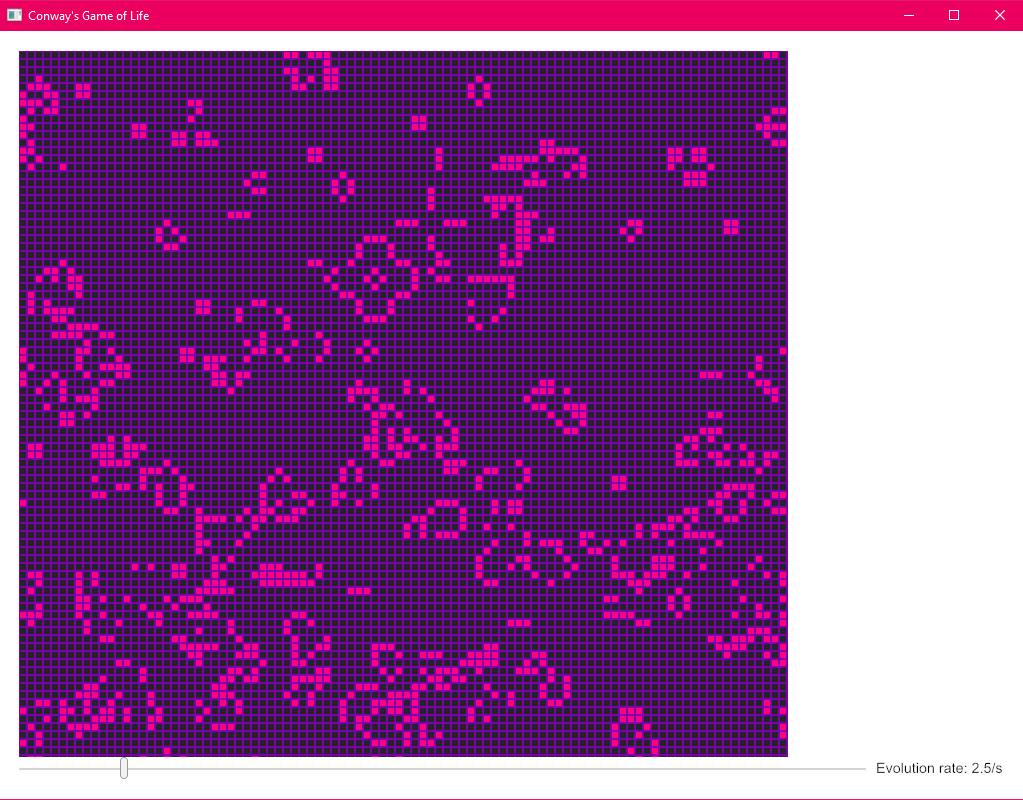
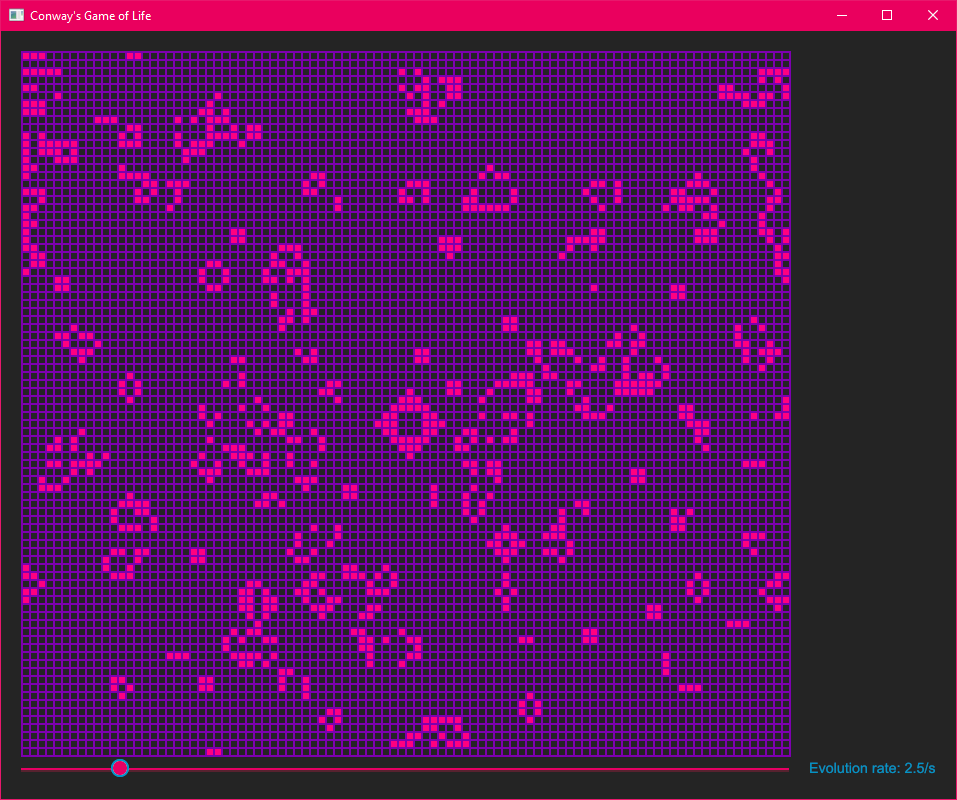
Layout and styling updates

diff --git a/src/bin/main.rs b/src/bin/main.rs
@@ -112,7 +112,9 @@ impl Application for UI {
             .width(Length::Fill)
             .height(Length::Fill);
 
-        let controls = self.controls.view();
+        let slider_width = self.cell_grid.cell_size * self.cell_grid.grid_size;
+
+        let controls = self.controls.view(slider_width as u16);
         let content = Column::new().push(canvas).push(controls);
 
         Container::new(content)
@@ -121,6 +123,7 @@ impl Application for UI {
             .padding(20)
             .center_x()
             .center_y()
+            .style(style::Container)
             .into()
     }
 
@@ -170,15 +173,10 @@ impl canvas::Program<Message> for &CellGrid {
 
             if self.show_grid_lines {
                 for line in 0..=self.grid_size {
-                    let half_width = self.line_width / 2.0;
                     let mut vertical_top_left =
                         Point::from(Position { x: line, y: 0 } * self.cell_size);
-                    vertical_top_left.x -= half_width;
-                    vertical_top_left.y -= half_width;
                     let mut horizontal_top_left =
                         Point::from(Position { x: 0, y: line } * self.cell_size);
-                    horizontal_top_left.x -= half_width;
-                    horizontal_top_left.y -= half_width;
 
                     let size = (self.grid_size * self.cell_size) as f32 + self.line_width;
                     let vertical_size = Size {
@@ -231,25 +229,54 @@ struct Controls {
 }
 
 impl Controls {
-    fn view(&mut self) -> Element<Message> {
-        let speed_controls = Row::new()
-            .width(Length::Fill)
+    fn view(&mut self, slider_width: u16) -> Element<Message> {
+        // let speed_controls = Row::new()
+        //     .width(Length::Fill)
+        //     .align_items(Align::Center)
+        //     .spacing(10)
+        //     .push(
+        //         Slider::new(
+        //             &mut self.evolution_rate_slider,
+        //             1.0..=200.0,
+        //             (self.evolution_rate) as f64,
+        //             Message::EvolutionRateChange,
+        //         )
+        //         .style(style::Slider),
+        //     )
+        //     .push(
+        //         Text::new(format!(
+        //             "Evolution rate: {}/s",
+        //             (self.evolution_rate as f64) / 10.0
+        //         ))
+        //         .size(16),
+        //     );
+        let speed_slider = Row::new()
+            .width(Length::Units(slider_width))
             .align_items(Align::Center)
             .spacing(10)
-            .push(Slider::new(
-                &mut self.evolution_rate_slider,
-                1.0..=200.0,
-                (self.evolution_rate) as f64,
-                Message::EvolutionRateChange,
-            )
-        .style(style::Slider))
-            .push(Text::new(format!("Evolution rate: {}/s", (self.evolution_rate as f64)/10.0)).size(16));
+            .push(
+                Slider::new(
+                    &mut self.evolution_rate_slider,
+                    1.0..=200.0,
+                    (self.evolution_rate) as f64,
+                    Message::EvolutionRateChange,
+                )
+                .style(style::Slider),
+            );
+        let text = Text::new(format!(
+            "Evolution rate: {}/s",
+            (self.evolution_rate as f64) / 10.0
+        ))
+        .size(16);
 
         Row::new()
-            .padding(10)
+            .width(Length::Shrink)
+            .padding(0)
             .spacing(20)
             .align_items(Align::Center)
-            .push(speed_controls).into()
+            .push(speed_slider)
+            .push(text)
+            .into()
     }
 }
 

diff --git a/src/bin/style.rs b/src/bin/style.rs
@@ -1,5 +1,4 @@
-use iced::{Color,
-slider};
+use iced::{container, slider, Background, Color};
 
 #[allow(clippy::eq_op)]
 
@@ -9,8 +8,22 @@ pub const DEAD_CELL: Color = Color::from_rgba(36.0 / 255.0, 36.0 / 255.0, 36.0 /
 pub const GRID_LINE: Color = Color::from_rgba(125.0 / 255.0, 0.0 / 255.0, 175.0 / 255.0, 1.0);
 
 // Control colors
-pub const ACTIVE: Color = Color::from_rgba(230.0/255.0, 0.0/255.0, 100.0/255.0, 1.0);
-pub const HOVERED: Color = Color::from_rgba(250.0/255.0, 0.0/255.0, 115.0/255.0, 1.0);
+pub const ACTIVE: Color = Color::from_rgba(230.0 / 255.0, 0.0 / 255.0, 100.0 / 255.0, 1.0);
+pub const HOVERED: Color = Color::from_rgba(250.0 / 255.0, 0.0 / 255.0, 115.0 / 255.0, 1.0);
+pub const ACCENT: Color = Color::from_rgba(0.0 / 255.0, 150.0 / 255.0, 200.0 / 255.0, 1.0);
+pub const BACKGROUND: Color = DEAD_CELL;
+
+pub struct Container;
+
+impl container::StyleSheet for Container {
+    fn style(&self) -> container::Style {
+        container::Style {
+            background: Some(Background::Color(BACKGROUND)),
+            text_color: Some(ACCENT),
+            ..container::Style::default()
+        }
+    }
+}
 
 pub struct Slider;
 
@@ -21,8 +34,8 @@ impl slider::StyleSheet for Slider {
             handle: slider::Handle {
                 shape: slider::HandleShape::Circle { radius: 9.0 },
                 color: ACTIVE,
-                border_width: 0.0,
-                border_color: Color::TRANSPARENT,
+                border_width: 2.0,
+                border_color: ACCENT,
             },
         }
     }
